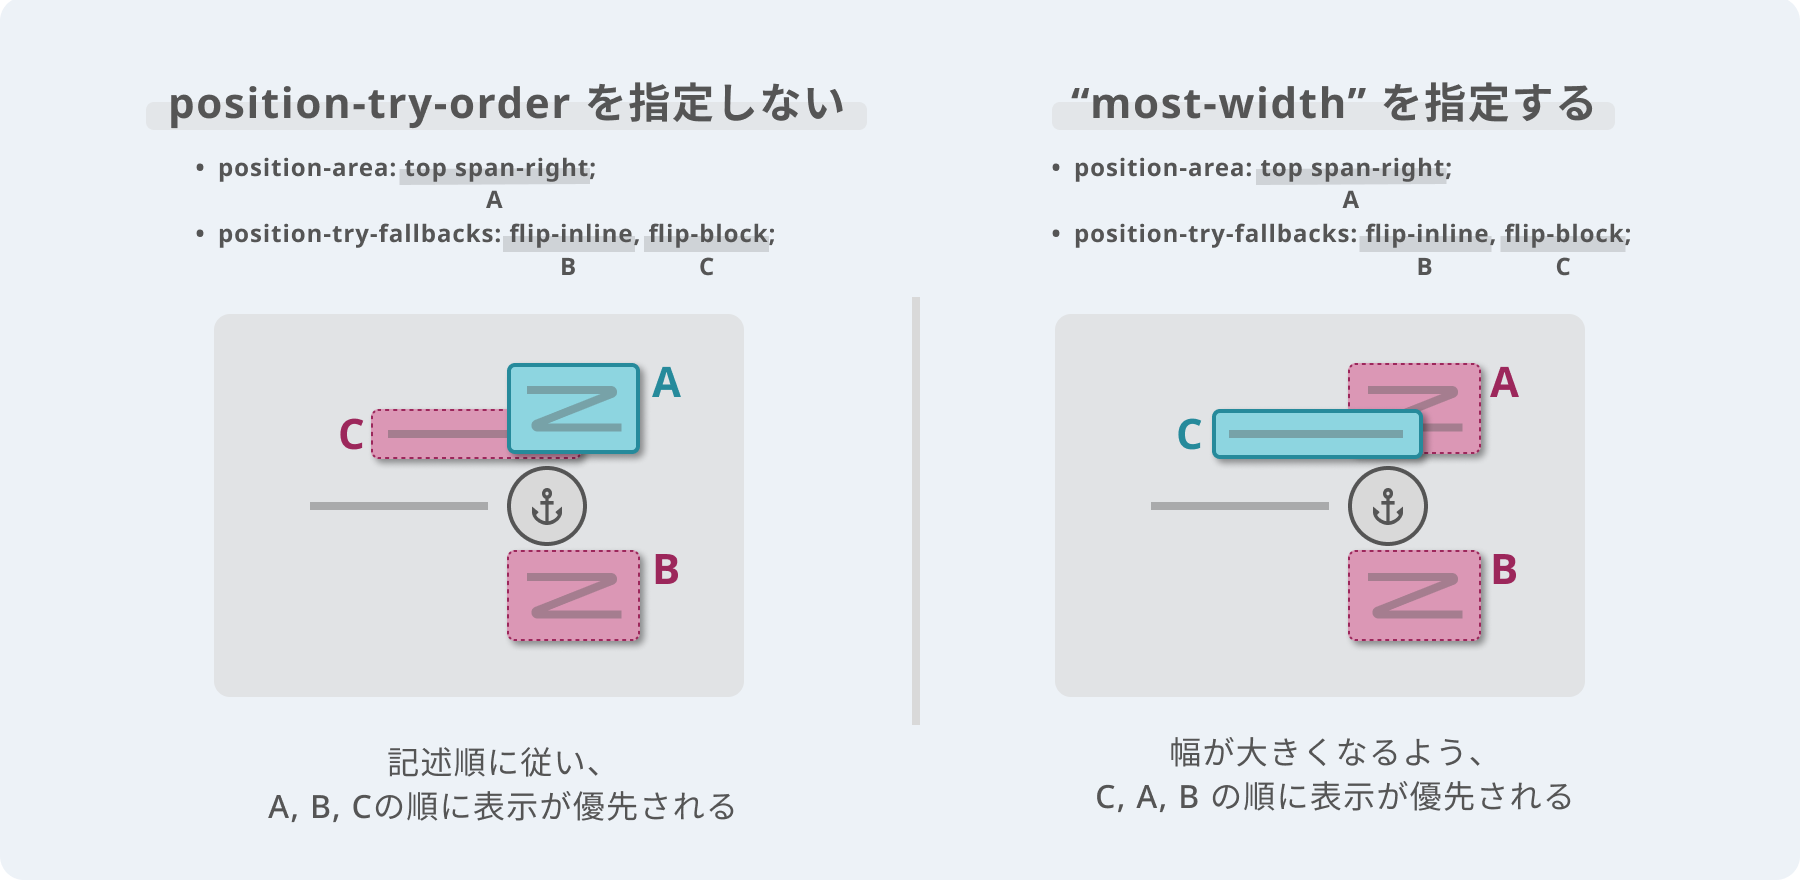
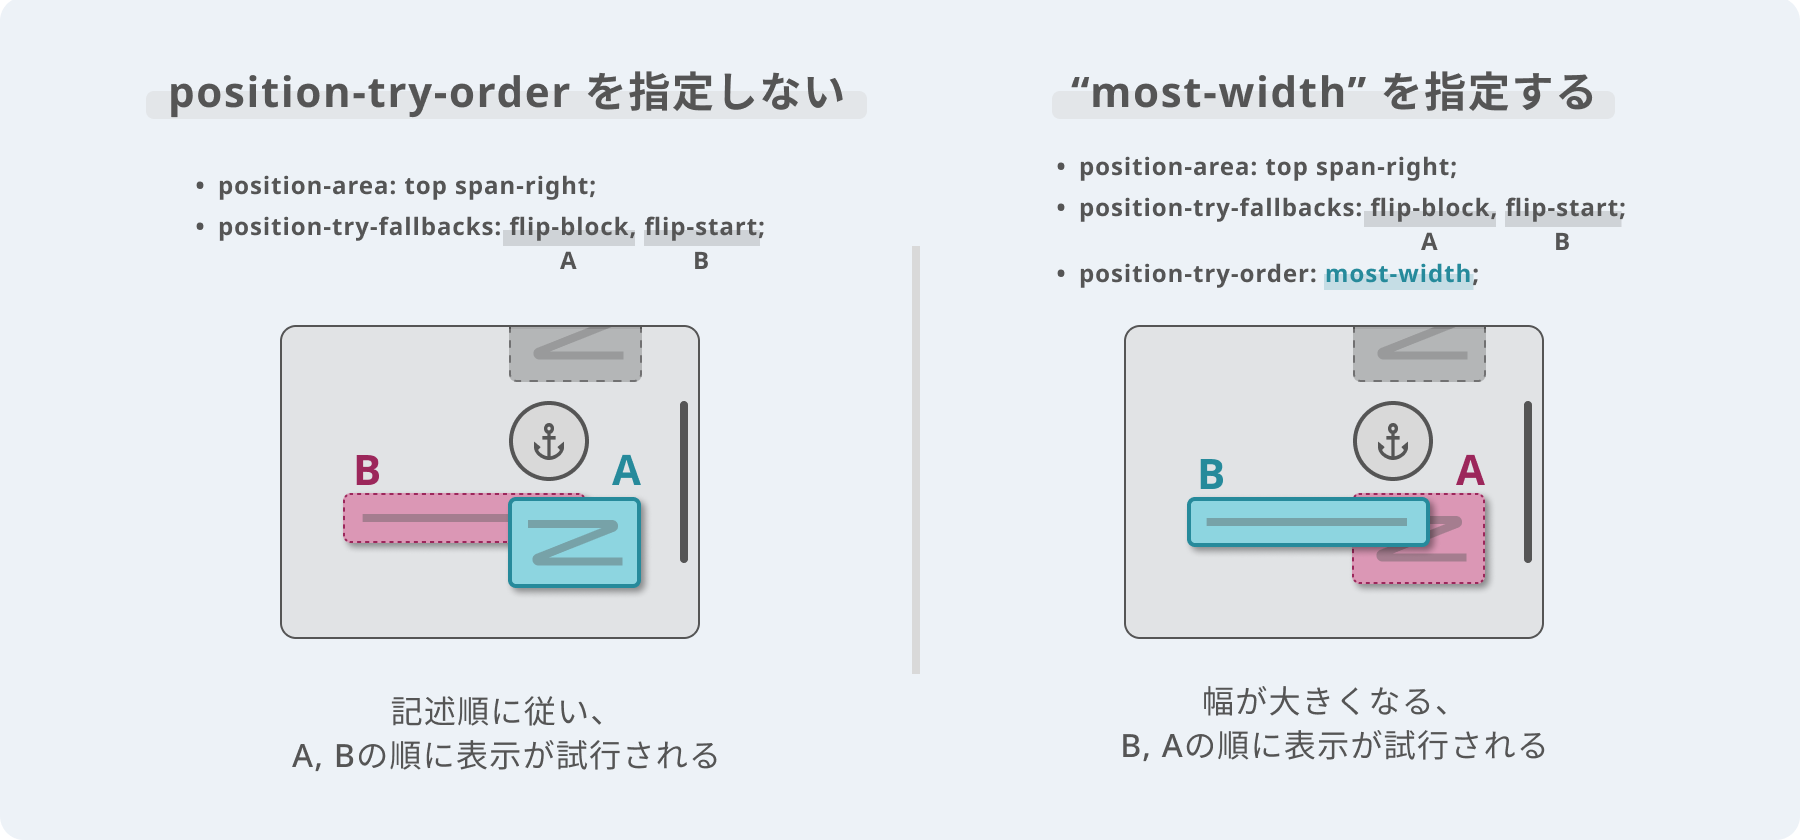
feature(article): fix figures

diff --git a/articles/css-anchor-positioning-294aa71a7f77fc.md b/articles/css-anchor-positioning-294aa71a7f77fc.md
@@ -231,9 +231,19 @@ top, right 等のプロパティを記述するよりもシンプルに、アン
 #### position-area の値
 
 - none（初期値） ... このプロパティによる効果はない
-- *`キーワード値`* ... 要素はキーワード値の当てはまる領域に配置される。主な指定のしかたは次を参照。
+- *`キーワード値`* ... 要素はキーワード値の当てはまる領域に配置される。主な値は次の図を参照。
 
 ![アンカー要素に対してどの位置に要素を配置するかによって、それぞれの値が示されている。全部で20通り。左上・上・右上は "top"、左上・上は "top span-left"、上・右上は "top span-right"、上のみは "top center"。右上と右と右下は "right"、右上と右は "right span-top"、右と右下は "right span-bottom"、右のみは "right center"。左下と下と右下は "bottom"、左下と下は "bottom span-left"、下と右下は "bottom span-right"、下のみは "bottom center"。左上と左と左下は "left"、左上と左は "left span-top"、左と左下は "left span-bottom"、左のみは "left center"。左上のみは "top left"、右上のみは "top right"、右下のみは "bottom right"、左下のみは "bottom left"。](/images/css-anchor-positioning-294aa71a7f77fc/image3-2.png)
+
+#### position-area の使用例
+
+```css
+.my-popover {
+  position-anchor: --my-anchor;
+  position: absolute;
+  position-area: top span-right; /* アンカー要素の右上に配置 */
+}
+```
 
 #### position-area についての補足
 
@@ -245,16 +255,6 @@ top, right 等のプロパティを記述するよりもシンプルに、アン
 
 論理的な値について、`x-start`, `span-y-end` といった`x` や `y` が含まれるキーワードは、ブロック方向・インライン方向を指定する代わりに、方向を直接指定するキーワードです。
 `inline-self-start`, `span-block-self-end` といった `self` が含まれるキーワードは、自身の書字モードを参照するキーワードです。
-
-#### position-area の使用例
-
-```css
-.my-popover {
-  position-anchor: --my-anchor;
-  position: absolute;
-  position-area: top span-right; /* アンカー要素の右上に配置 */
-}
-```
 
 ## 表示領域に収まらない時の制御
 
@@ -321,27 +321,28 @@ top, right 等のプロパティを記述するよりもシンプルに、アン
 - `most-block-size` ... 論理的な値。ブロック方向のサイズが大きくなるような順序で試行される。
 - `most-inline-size` ... 論理的な値。インライン方向のサイズが大きくなるような順序で試行される。
 
+比較するサイズが同じものどうしは、元の順序で試行されます。
+
 #### position-try-order の使用例
 
 ```css
 .my-popover {
   position-anchor: --my-anchor;
   position: absolute;
-  position-area: top span-right;
-  position-try-fallbacks: flip-block, flip-inline;
+  position-area: right;
+  position-try-fallbacks: top span-right, bottom span-right, bottom span-left;
   position-try-order: most-width; /* 幅が大きくなるような順序で試行 */
 }
 ```
 
-![position-try-order を指定しない場合と "most-width" を指定した場合の2通りのイメージが示されている。双方、アンカー要素の右上、右下、左上のポップオーバーが配置されており、それぞれA、B、Cのラベルが付けられている。このうちAとBのポップオーバーは、Cに比べて横幅が狭くなっている。前者のイメージでは、Aのポップオーバーが最も前面に表示されており、後者のイメージではCのポップオーバーが最も前面に表示されている。](/images/css-anchor-positioning-294aa71a7f77fc/image3-5.png)
+![position-try-order を指定しない場合と "most-width" を指定した場合の2通りのイメージが示されている。双方、アンカー要素の右下、左上のポップオーバーが配置されており、それぞれA、Bのラベルが付けられている。Aのほうが、Bに比べて横幅が狭くなっている。前者のイメージでは、Aのポップオーバーが前面に表示されており、後者のイメージではBのポップオーバーが最も前面に表示されている。](/images/css-anchor-positioning-294aa71a7f77fc/image3-5.png)
 
-上記の例では、要素を配置する位置として、
-A. もとの指定（`top span-right`）
-B. `flip-inline` した結果（`top span-left`）
-C. `flip-block` した結果（`bottom span-right`）
-のいずれかになることが考えられます。
-`position-try-order` プロパティを指定しない場合、記述順に従って、A, B, C の順に試行されます。つまり、もとの指定 A が表示領域に収まればそれが採用され、そうでなければ B, それも収まらなければ C が採用されます。
-`position-try-order: most-width` が指定されている場合では、右側に十分なスペースが無いなどで C の幅が最も大きくなるときは、C, A, B の順に試行されます。結果、C が表示領域に収まればそれが採用されます。
+上記の例では、要素が元の位置（`position-area: top span-left`）で表示領域に収まらない場合、フォールバック先として
+A. `flip-block`（`bottom span-right` の位置となる）
+B. `flip-start`（`bottom span-left` の位置となる）
+の2つが指定されています。
+`position-try-order` プロパティを指定しない場合、記述順に従って A, B の順に試行されます。つまり、A が表示領域に収まればそれが採用され、そうでなければ B が採用されます。
+`position-try-order: most-width;` が指定されている場合では、右側に十分なスペースが無いなどで B の幅が最も大きくなるとき、B, A の順に試行されます。結果、B が表示領域に収まればそれが採用されます。
 
 ### position-try プロパティ
 
@@ -419,7 +420,7 @@ C. `flip-block` した結果（`bottom span-right`）
 「参照する対象」は、次の値が使用できます。
 - `width`, `height` ... それぞれアンカー要素の幅、高さを参照する
 - `block`, `inline` ... 論理的な値。包含ブロックの書字モードをもとに、ブロック方向、インライン方向のサイズを参照する。
-- `block-start`, `block-end`, `inline-start`, `inline-end` ... 論理的な値。自身の書字モードをもとに、ブロック方向、インライン方向のサイズを参照する。
+- `self-block`, `self-inline` ... 論理的な値。自身の書字モードをもとに、ブロック方向、インライン方向のサイズを参照する。
 
 「参照する対象」も省略可能で、省略した場合はプロパティに対応する軸が指定されたものとして扱われます。例えば `width: anchor-size();` は `width: anchor-size(width);` と同じ意味になります。
 
